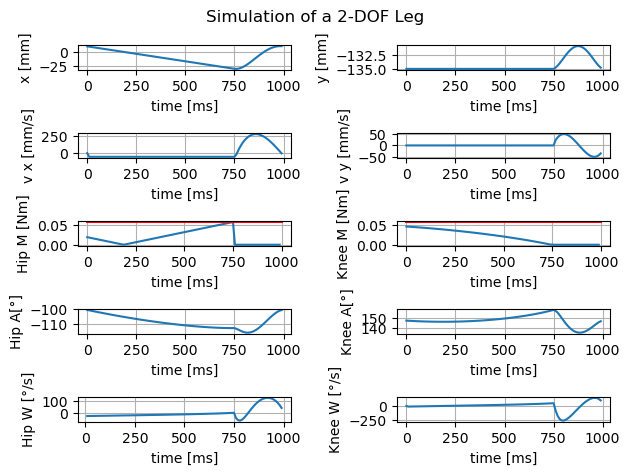
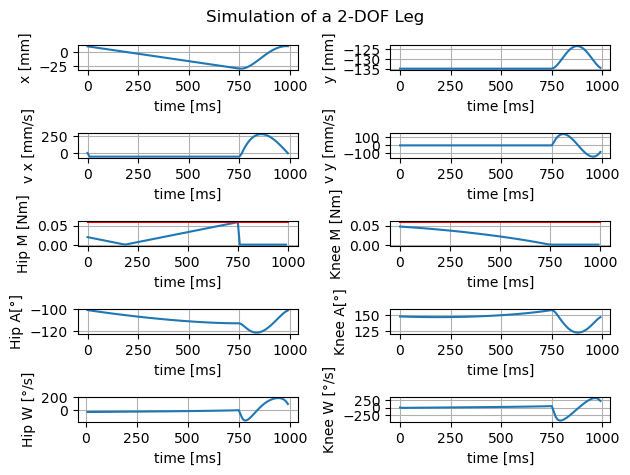
finish software delepment

diff --git a/projects/project_robo_dog.html b/projects/project_robo_dog.html
@@ -80,7 +80,7 @@
 										The robotic dog is controlled by an ESP32 and the MG90S servos are controlled via a PCA9685 servo driver board. <br>
 										Following the owner is realized with the help of two RXB6 recievers which locate a 433 MHz transmitter held by the owner.
 									</p>
-									<h4>Software development</h4>
+									<h3>Software development</h3>
 									<h4>Walking Gait</h4>
 									<p>
 										The first version of the robotic dog has no interial measurement unit (IMU) and therefore no feedback control. Hence the walking gait had to be very stable and is only based on time. <br>
@@ -288,6 +288,9 @@
 										The animation below shows either the movement of one leg or all four legs during the walking gait. <br>
 										As described above, the walking gait is divided into four phases. <br>
 										In each phase, one leg is lifted, moved forward and set down again, while the other three legs provide stability. <br>
+										<br>
+										Feel free to try it out:
+										<br>
 										<div style="text-align: center;">
 											<canvas id="ani" width="500" height="520"></canvas>
 											<script src="../project_files/robo_dog/animation.js"></script>
@@ -298,7 +301,31 @@
 											<button class="butAni" onclick="animateStepsFour()">Four Legs</button>
 											</div>
 										</div>
-									</p>	
+									</p>
+									<h4>Simulation of a leg</h4>
+									<p>
+										Before implementing the walking gait on the real leg, the movement of one leg was simulated in Python. <br>
+										This made it possible to verify the moments, speeds und positions.<br>
+										It allowed to optimize the walking gait before implementing it on the real robot.
+										A maximum weight of 500 g was assumed for the dog which is distributed on three legs on time. 
+										The MG90s servos can provide a stall torque of 0.177 Nm which was divided by three for safety reasons. 
+										The folowing figure shows the results of the simulation:
+										<div style="text-align: center;">
+											<img class="image_in_text" src="../images/robo_dog/leg_m.png"></img>
+										</div>
+										This is for a step length of 5 cm which starts 1 cm before the vertical projection of the hip. <br>
+										All values are in a safe range for the servos and the variations are continuous and smooth.
+										Therefore, the walking gait can be implemented on the real robot. If the robot will be lighter, even bigger step lengths are possible.
+									</p>
+									<h3>Wiring and Parts</h3>
+									<p>
+										As already mentioned, the robotic dog is controlled by an ESP32 and the MG90S servos are controlled via a PCA9685 servo driver board. 
+										In addition, a 7,4 V 2000 mAh 15C LiPo battery and two XL4015 are used to supply the robot dog with sufficent power. <br>
+									</p>
+									<h3>Programming the ESP32</h3>
+									<p>
+										The ESP32 was programmed with ESP-IDF in VS Code. <br>
+									</p>
 									<div style="height:6em"></div>
 									<p>This project was a cooperation with <a href="https://nora-1125.github.io/Website/">Nora</a>. Please check her website, too.</p>
 									<h3>License</h3>
